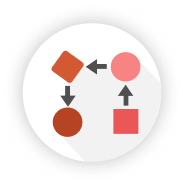
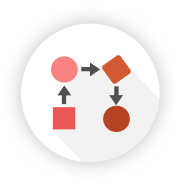
New iconography and minor bug fixes
- This PR updates the iconography for devices, templates, users and flows.
 Besides, fixes some minor issues related at dojot/dojot#365 and dojot/dojot#372.

diff --git a/src/js/views/templates/Templates.js b/src/js/views/templates/Templates.js
@@ -845,7 +845,7 @@ class ListItem extends Component {
                 </AltContainer>
             ) : null }
             
-            <div className={"card-size lst-entry-wrapper z-depth-2 " + (this.state.isSuppressed ? 'suppressed' : 'fullHeight')}
+            <div className={"template card-size lst-entry-wrapper z-depth-2 " + (this.state.isSuppressed ? 'suppressed' : 'full-height')}
                 id={this.props.id}>
                 {this.state.show_modal ?(
                   <RemoveModal name={"template"} remove={this.deleteTemplate} openModal={this.openModal} />
@@ -853,7 +853,7 @@ class ListItem extends Component {
                   <div></div>
                 )}
                 <div className="lst-entry-title bg-gradient-ciano-blue col s12">
-                    <img className="title-icon" src={"images/model-icon.png"}/>
+                    <img className="title-icon template" src={"images/big-icons/template.png"}/>
                     <div className="title-text">
                         <textarea maxLength="40" placeholder={"Template Name"} readOnly={!this.state.isEditable}
                                   value={this.state.template.label} name={"label"} onChange={this.handleAttribute}/>

diff --git a/src/js/containers/full/Full.js b/src/js/containers/full/Full.js
@@ -215,7 +215,7 @@ class LeftSidebar extends Component {
       { image: 'template', target: "/template/list", iconClass: "fa fa-cubes", label: "Templates ", desc: "Template management"},
       { image: 'graph', target: "/flows", iconClass: "material-icons mi-device-hub", label: "data flows", desc: "Processing flows to be executed"},
       { image: 'bell', target: "/alarm", iconClass: "fa fa-bell-o", label: "alarms", desc: "System events and alarms"},
-      { image: 'auth', target: "/auth", iconClass: "fa fa-unlock-alt", label: "auth", desc: "User and permissions management", children: [
+      { image: 'user', target: "/auth", iconClass: "fa fa-unlock-alt", label: "auth", desc: "User and permissions management", children: [
         { target: "/auth/user", iconClass: "", label: "users", title: "Users list"},
         { target: "/auth/permissions", iconClass: "", label: "permissions", title: "Permissions list"}
       ]}/*,

diff --git a/src/js/views/devices/DeviceCard.js b/src/js/views/devices/DeviceCard.js
@@ -25,7 +25,7 @@ function SummaryItem(props) {
       <Link to={"/device/id/" + props.device.id + "/detail"}>
           <div className={"card-size lst-entry-wrapper z-depth-2 fullHeight"}>
               <div className="lst-entry-title col s12">
-                  <img className="title-icon" src={"images/white-chip.png"}/>
+                  <img className="title-icon" src={"images/icons/chip-wt.png"}/>
                   <div className="title-text">
                       <span className="text"> {props.device.label} </span>
                   </div>

diff --git a/src/sass/_sidebar.scss b/src/sass/_sidebar.scss
@@ -118,6 +118,8 @@
     .icon-graph
     {
       background: url(/images/icons/graph.png);
+      height: 24px;
+      width: 26px;
     }
 
     &:hover .icon-graph
@@ -133,6 +135,18 @@
     &:hover .icon-settings
     {
       background: url(/images/icons/settings-wt.png);
+    }
+
+     .icon-user
+    {
+      width: 26px;
+      height: 23px;
+      background: url(/images/icons/user.png);
+    }
+
+    &:hover .icon-user
+    {
+      background: url(/images/icons/user-wt.png);
     }
 
     .icon-auth

diff --git a/src/js/views/flows/Flows.js b/src/js/views/flows/Flows.js
@@ -15,7 +15,7 @@ function SummaryItem(props) {
   return (
       <div className={"card-size lst-entry-wrapper z-depth-2 fullHeight"}>
           <div className="lst-entry-title col s12">
-              <img className="title-icon" src={"images/white-chip.png"}/>
+        <img className="title-icon" src={"images/icons/graph-wt.png"}/>
               <div className="title-text">
                   <span className="text"> {props.flow.name} </span>
               </div>

diff --git a/src/sass/_list.scss b/src/sass/_list.scss
@@ -845,8 +845,12 @@ $action-area-width: 200px;
     height: 100%;
     width: 75px;
     float: left;
-    padding: 10px;
+    padding: 17px;
     user-select: none;
+
+    &.template{
+      padding: 12px;
+    }
   }
 
   .title-text {

diff --git a/src/sass/_template.scss b/src/sass/_template.scss
@@ -1,3 +1,10 @@
+.template{
+  &.full-height
+  {
+    max-height: 648px;
+  }
+}
+
 @keyframes opa-hei-90px {
     from {opacity: 0.2;height:10px;}
     to {opacity: 1;height:90px;}
